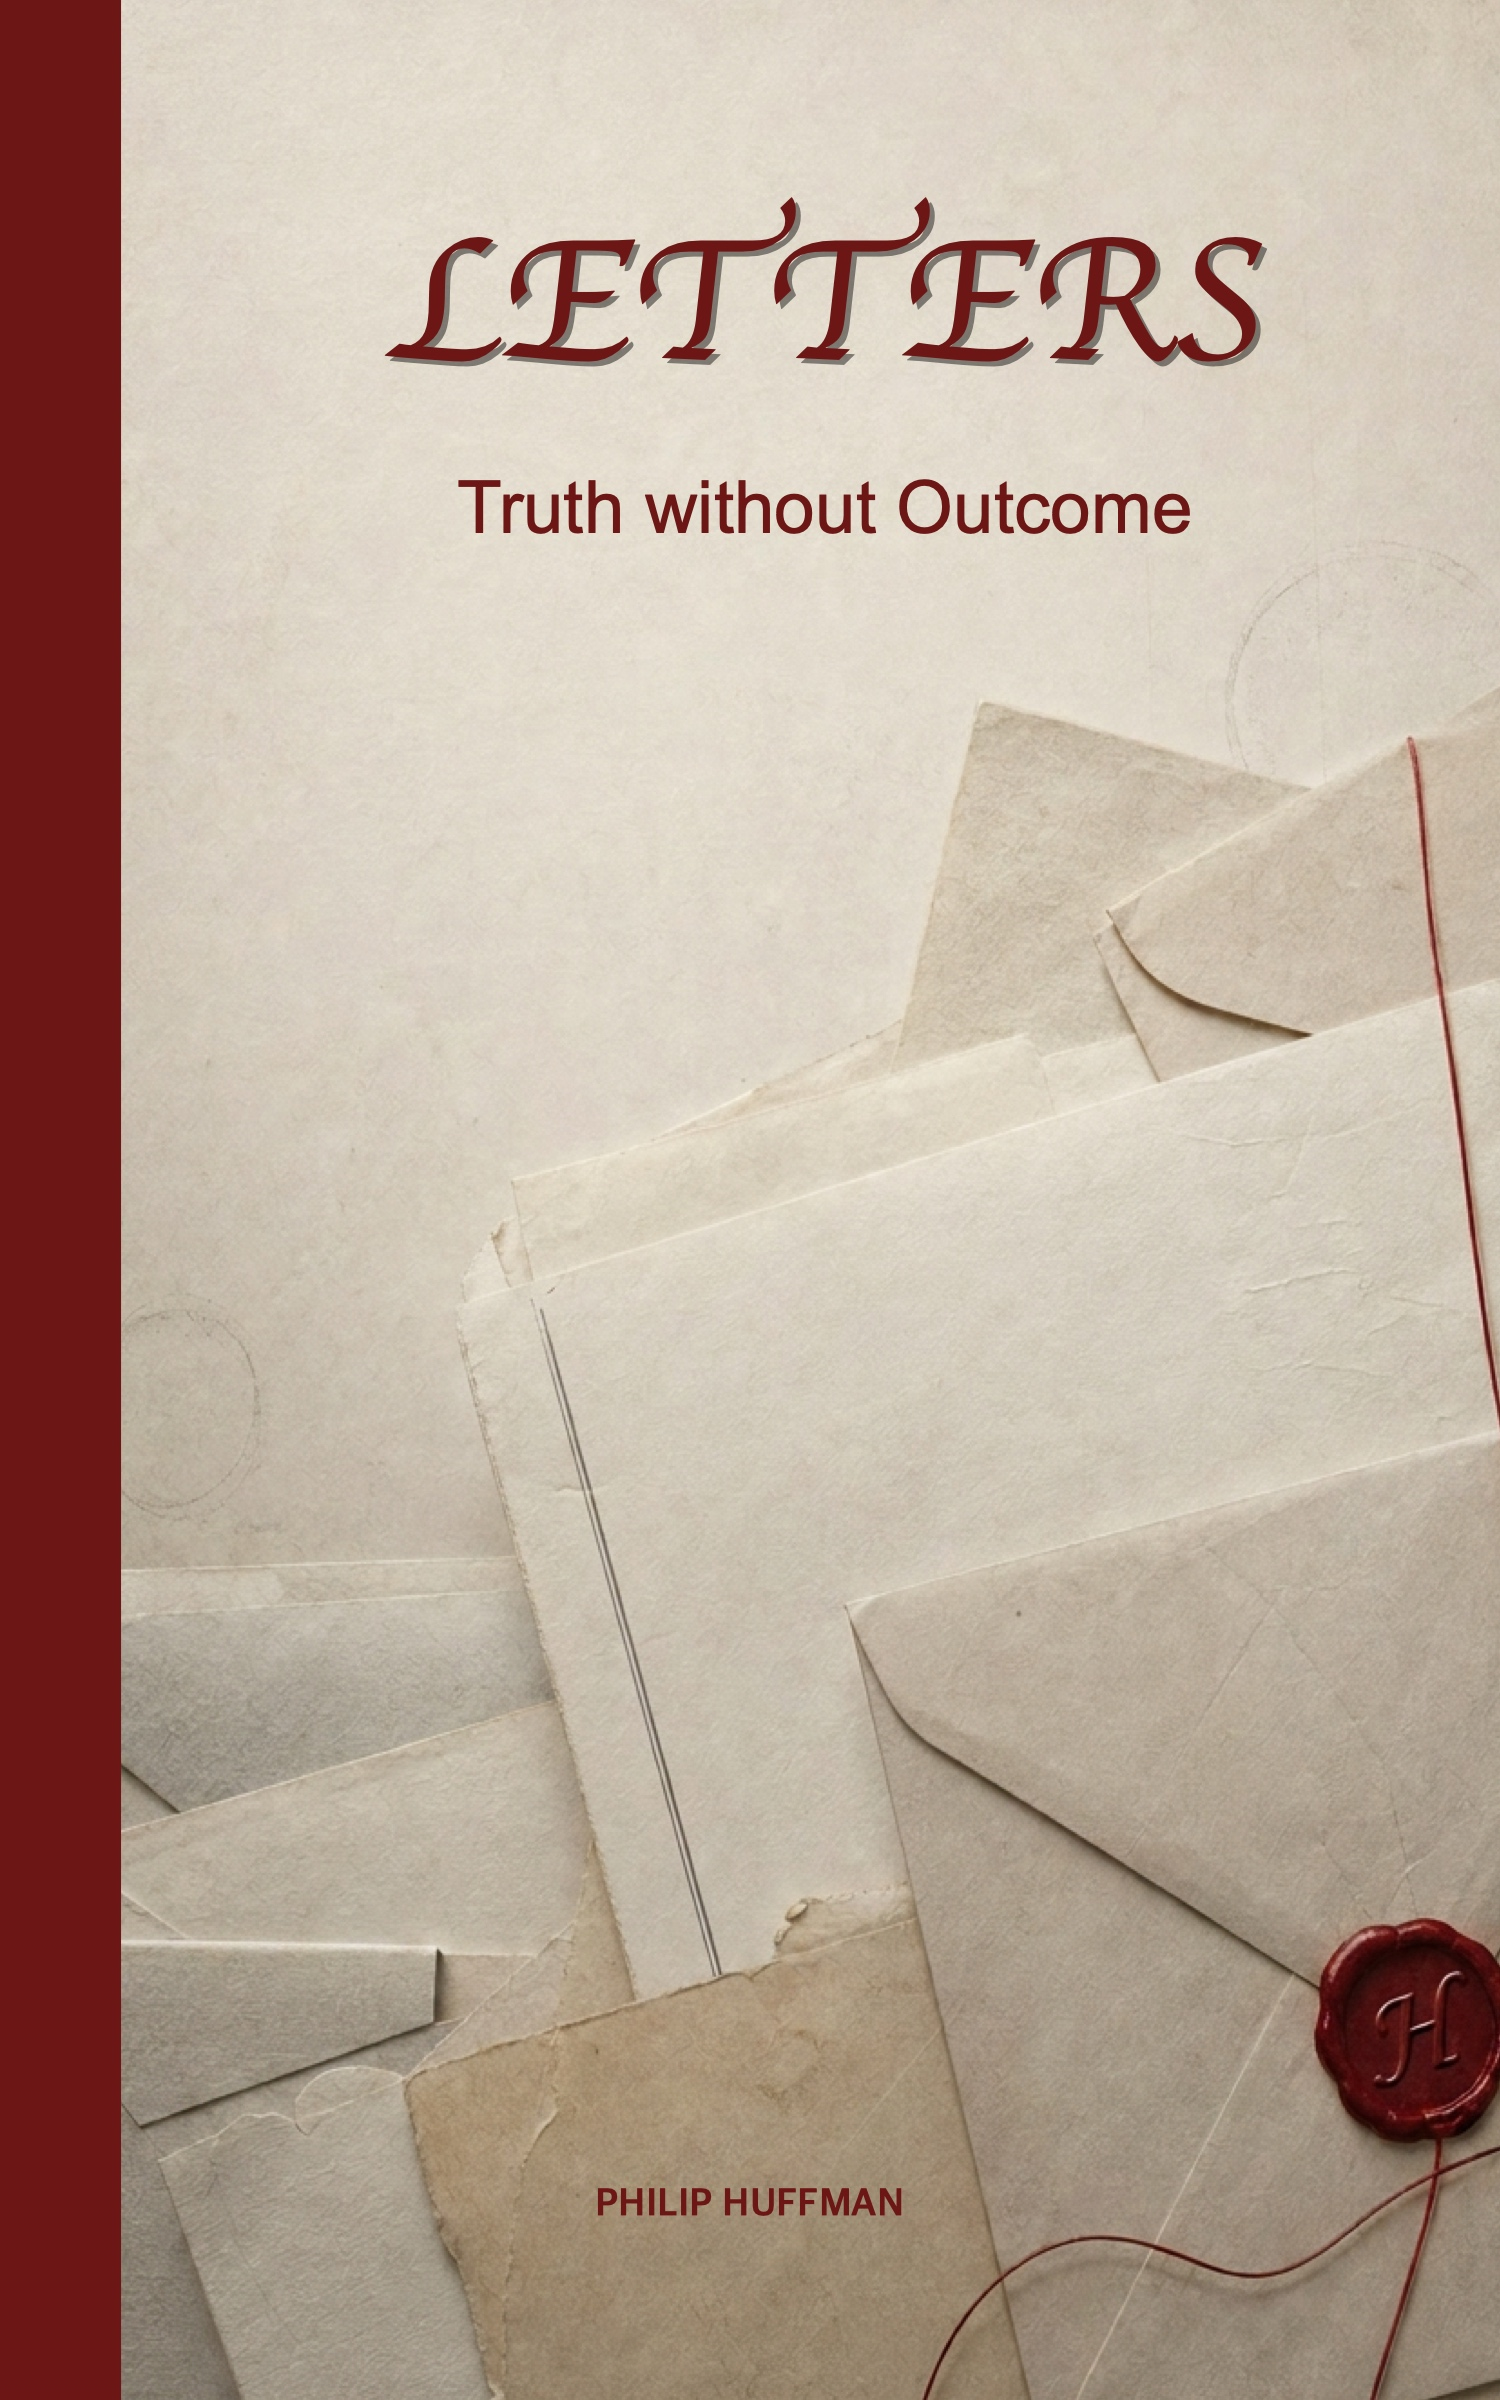
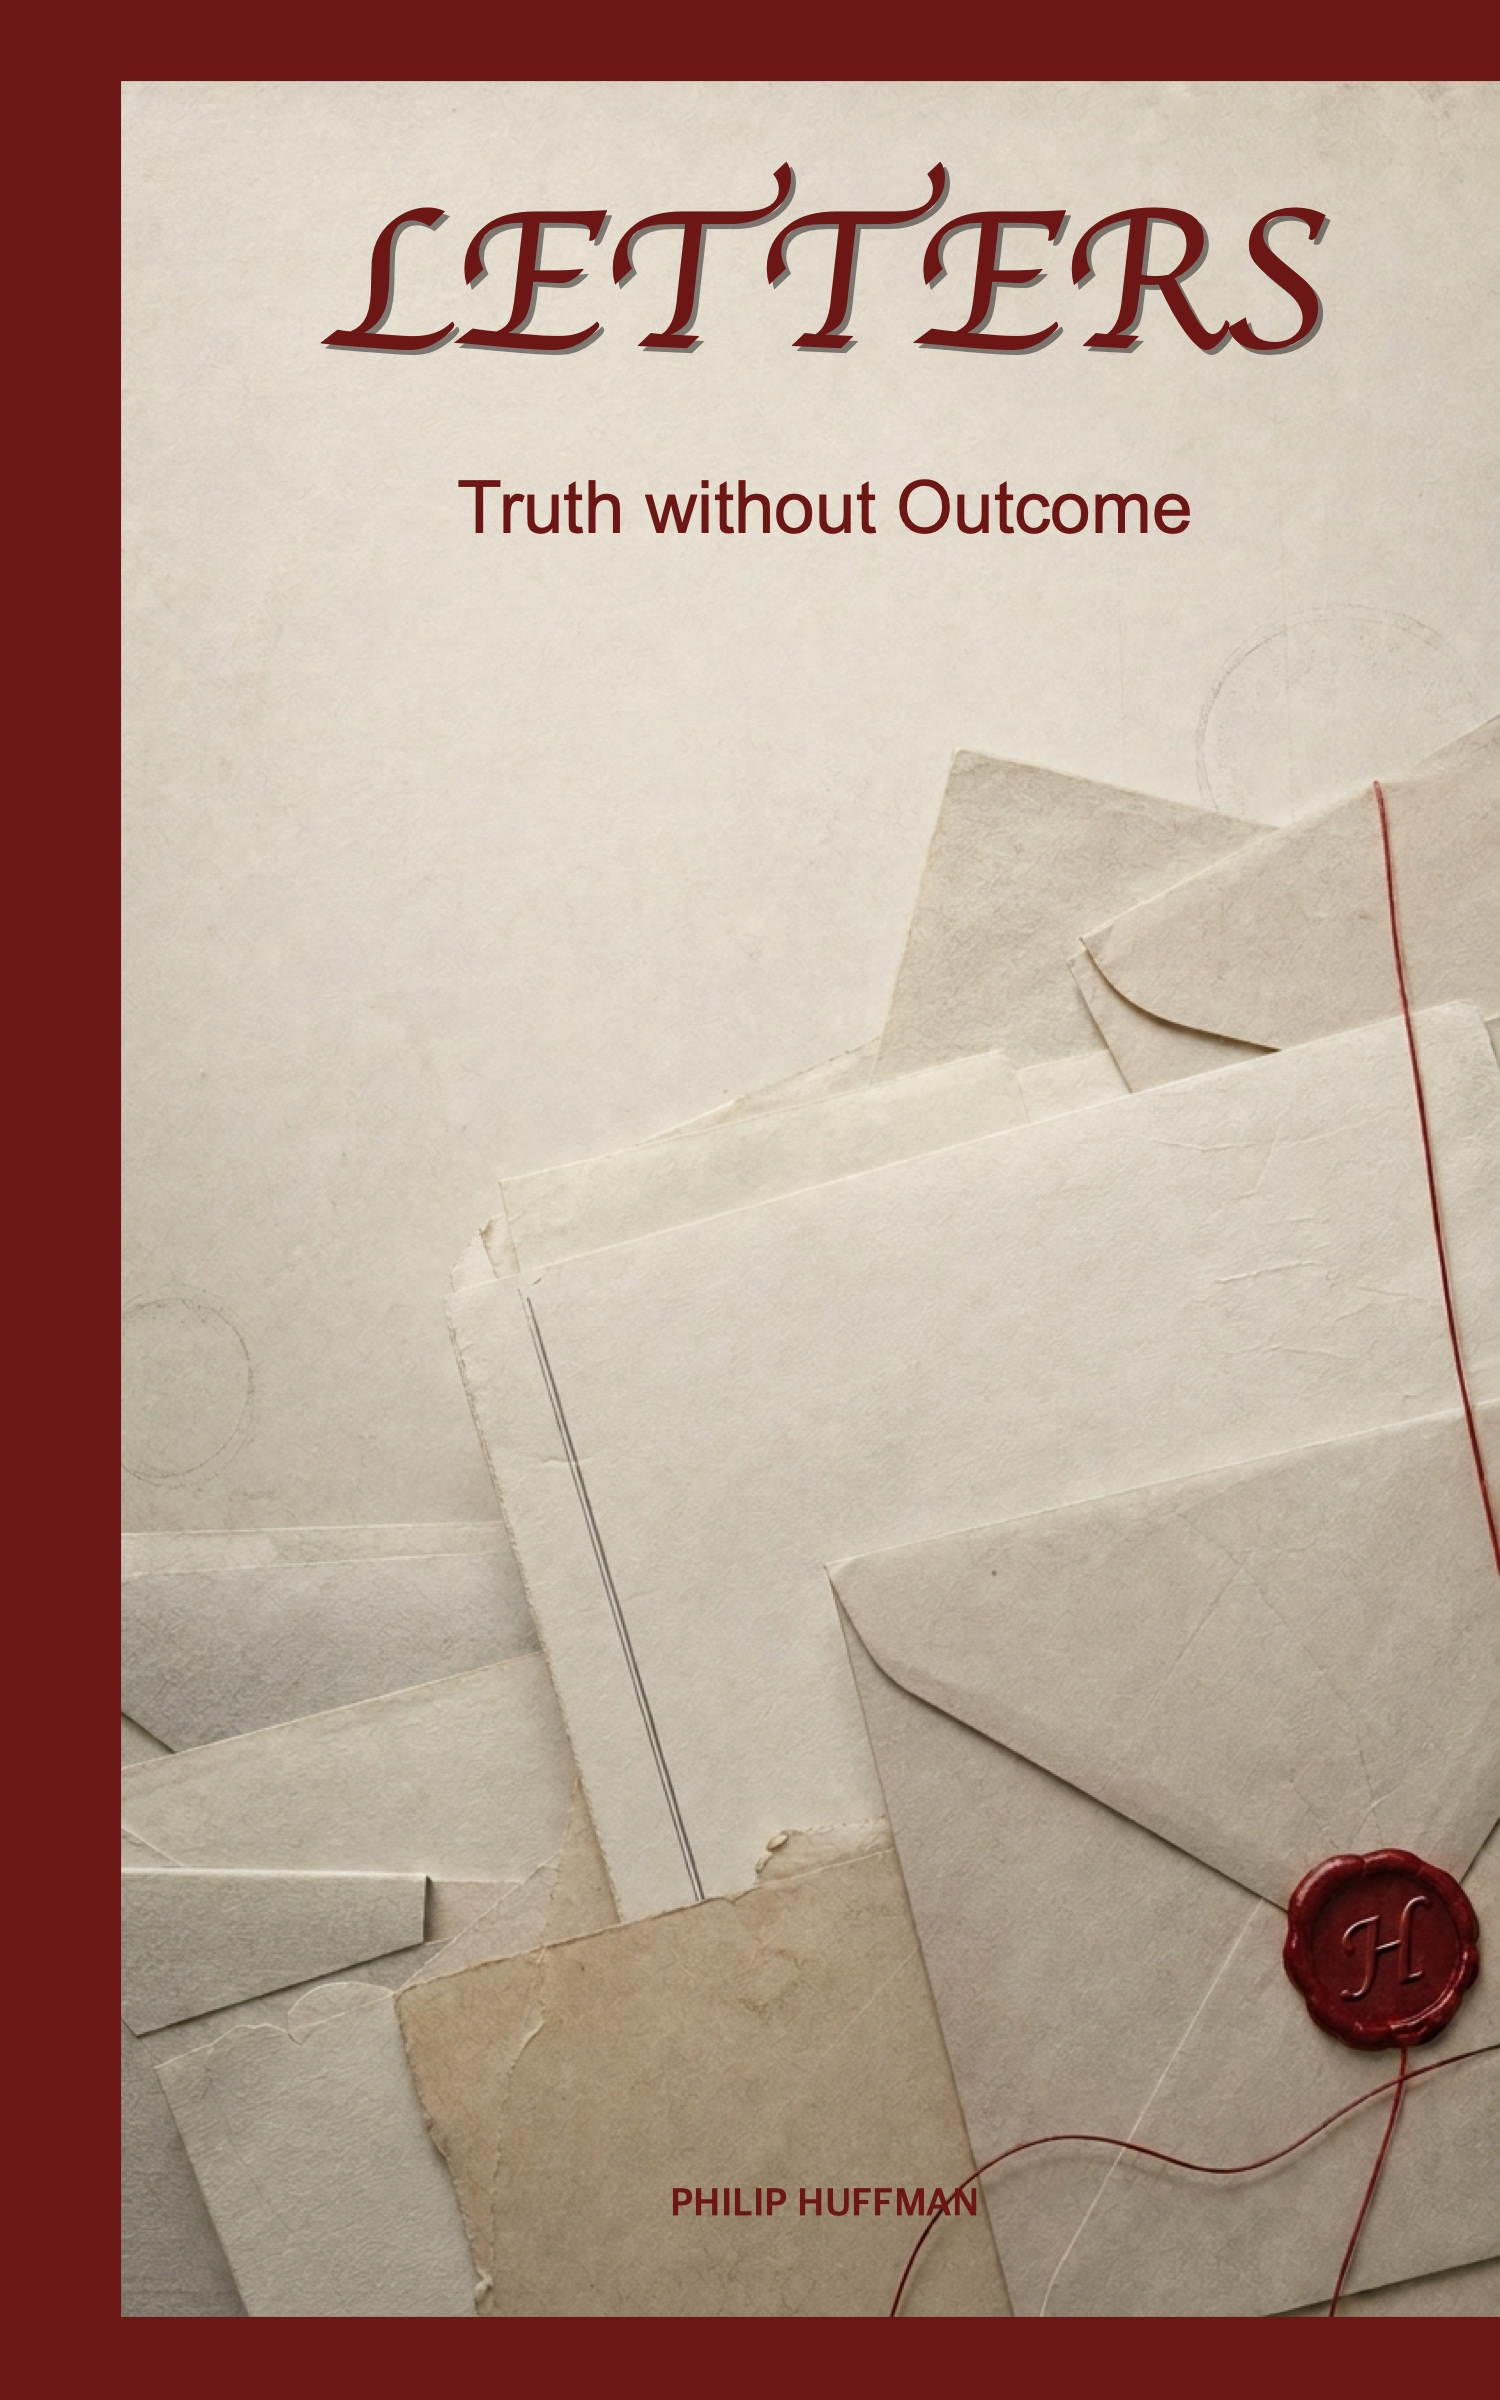
chore(books): install the re-rendered Letters cover
Philip re-rendered the cover in the book's own repo on 08NOV26: the title
scale went 1.0 to 1.15, the front image went from stretch to fit and
centred, and the author, title and subtitle offsets moved 0.25 in off
centre. The art is unchanged.

The site cover was byte-identical to that repo's pb-cover.jpg at HEAD, so
this is the new render at the same path: assets/img/books/letters.jpg,
1500x2400, one file and no .webp twin. lastmod moves to 2026-11-08.
image_alt is left as it is because it describes the hero scroll spiral,
not the cover. Build clean, cover and render gates OK.

diff --git a/SESSION_STATE.md b/SESSION_STATE.md
@@ -37,6 +37,16 @@ Auto-published by `com.huffmanwrites.daily-sitrep` after every gate passed.
 
 ---
 
+### Content — 08NOV26 — The *Letters* cover re-rendered: a bigger title, a fitted image, and the offsets moved right
+
+- **What Philip changed, in the book's own repo.** `/Users/prh/Developer/LaTeX/AllMyBooks/letters/cover/cover.md` moved: `front_title_scale` 1.0 → 1.15, `front_cover_image_centered` false → true and `front_image_fit` `stretch` → `fit`, and every front-matter offset off centre (`front_author_offset_x_inches`, `hc_front_author/subtitle/title_offset_x_inches`, `pb_front_author_offset_x_inches`) 0 → 0.25 in. `cover/Assets/base-fitted.png` was regenerated to match. So the art is unchanged — cream laid paper, a drift of envelopes, an oxblood wax seal stamped **H**, chancery title in red — and what moved is the typography and the crop.
+- **The site's cover is that render and nothing else.** `assets/img/books/letters.jpg` was **byte-identical to `cover/pb-cover.jpg` at the letters repo's HEAD** (`4e0330e…`, 1,500×2,400, 849,203 B), so the update is a copy of the new `pb-cover.jpg` (`d1249d7…`, same dimensions, 829,050 B) to the same path. One file is the whole story for this title: there is no `.webp` twin, no copy under `static/`, and nothing else in the corpus references it — the gallery cards and the summary page carry article heroes, not covers.
+- **`lastmod` 2026-10-12 → 2026-11-08.** The page changed, so the date it claims to have changed is now true.
+- **`image_alt` was left alone and that is the correct call.** It reads "An ascending spiral of floating ancient papyrus scrolls…", which is not this cover — it is the **hero**, `img/articles/letters-16x9.webp`, verified by opening both images: the hero is the gold-lit scroll spiral and `hero_caption` already describes it. `hero_caption` (hero) and `image_caption` (cover) remain distinct, as the frontmatter gate requires.
+- **Verified in the build, not assumed:** `hugo --gc --minify` clean; the page renders `letters_hu_40d71e371bfcc358.webp` at 800×1280, opened and confirmed to carry the larger title and the fitted crop; `check-hero-paths` OK (457 paths), `check-content-frontmatter` OK (302 files), `check-render-integrity` OK (676 pages). The raw copy the `og:image` names, `/img/books/letters.jpg`, is published from the same asset and hashes to the new file.
+
+---
+
 ### Maintenance — 08NOV26 — The SITREP published and the site served 404: a stalled build, and the re-dispatch that answers it
 
 - **What happened.** The 08NOV26 edition was filed at 06:03:57 CT and every gate passed; the push landed (`654287a`, `origin/main` verified). The delivery check then fetched `https://www.huffmanwrites.org/posts/sitrep/sitrep-2026-11-08/` twenty-four times over 360s and got 404 each time, and `alert-failure.sh` recorded the failure at 06:09:55. **The build was not slow, it was stopped:** run 42478502979 spent nine and a half minutes inside its *first* step, the `wget` of the Hugo `.deb`, with every step after it still `pending`. No timeout, no red gate — a workflow that had not failed and was not progressing, which is the state a waiting window cannot distinguish from a queued deploy.

diff --git a/content/books/letters/index.md b/content/books/letters/index.md
@@ -16,7 +16,7 @@ image_alt: "An ascending spiral of floating ancient papyrus scrolls with glowing
 hero_caption: "Scrolls ascending through the void — a dialogue across time."
 image_caption: "A timeless dialogue with the ghosts of history."
 link: "https://www.amazon.com/Letters-Without-Outcome-Philip-Huffman/dp/B0GLNWT4N7/"
-lastmod: 2026-10-12
+lastmod: 2026-11-08
 ---
 Read the [summary and review of *Letters*](/posts/summaries/letters-summary/).
 
